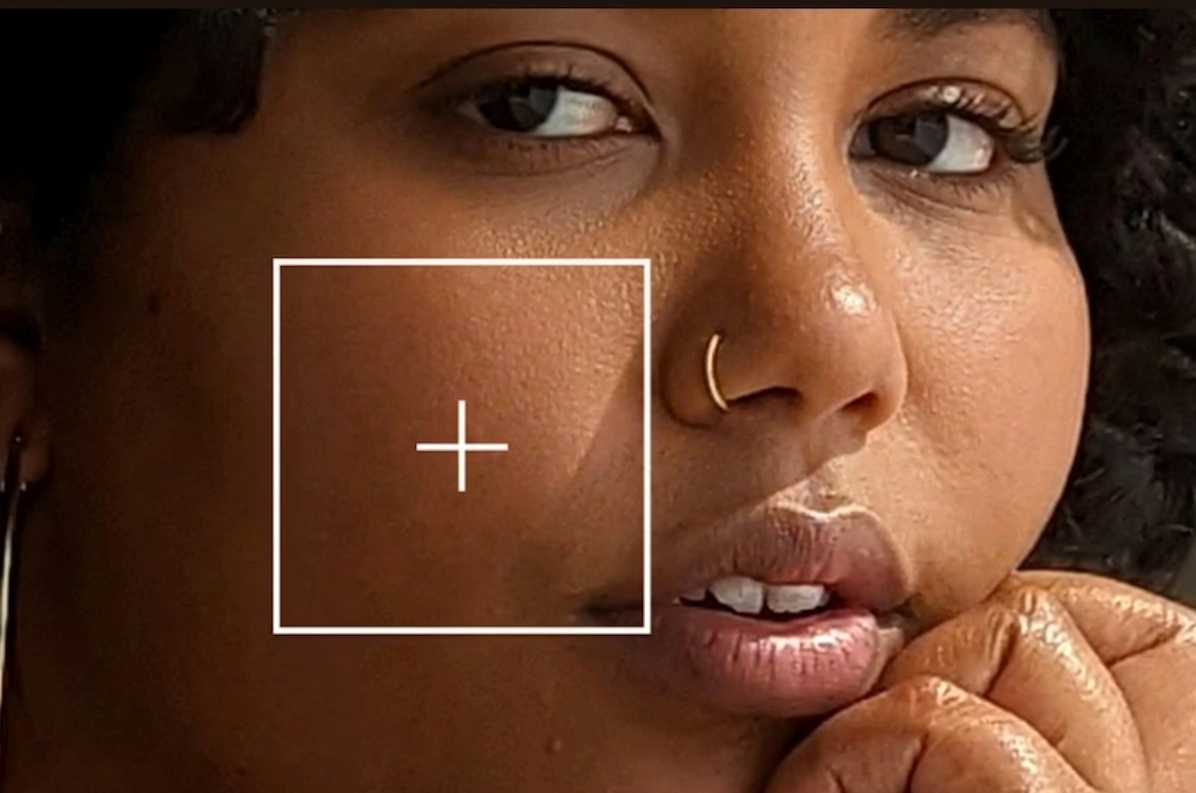
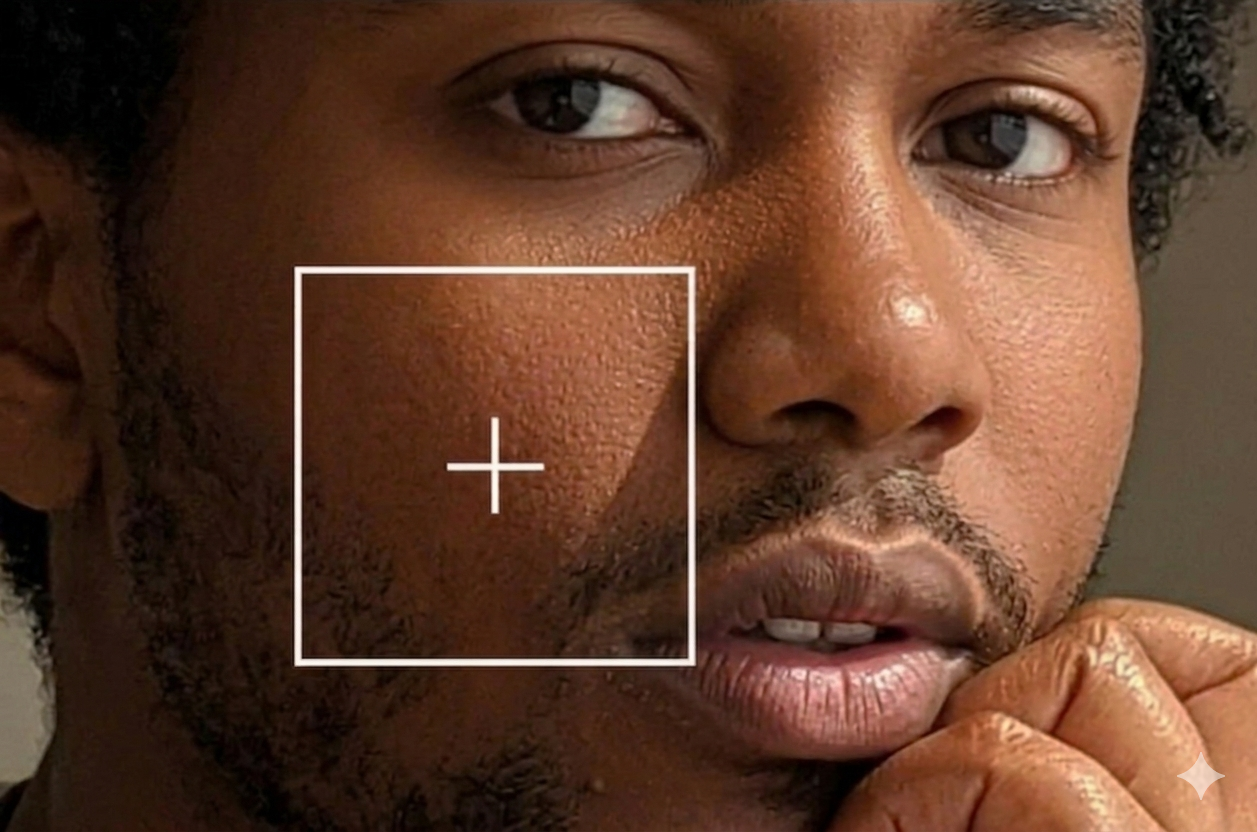
added the try on trouser and shirts also updated the text and photo of the landing page's skin tone feature deep dive

diff --git a/src/components/tryon/SmartFitSelection.jsx b/src/components/tryon/SmartFitSelection.jsx
@@ -3,12 +3,17 @@ import { Sparkles, Heart } from 'lucide-react';
 import { usePageFlow } from '../../hooks/usePageFlow';
 import { cn } from '../../lib/utils';
 
+import imgGreenTShirt from '../../assets/green-t-shirt.jpeg';
+import imgRedTShirt from '../../assets/red-t-shirt.jpeg';
+import imgBlackJeans from '../../assets/black-jeans.jpeg';
+import imgBlueJeans from '../../assets/bule-jeans.jpeg';
+
 // Hardcoded garments for display layout matching the screenshot
 const GARMENTS = [
-  { id: 'g1', category: 'upper', line: 'AETHER EDITION', name: 'Structured Tech-Blazer', price: '€450' },
-  { id: 'g2', category: 'upper', line: 'ESSENTIAL LINE', name: 'Obsidian Silk Shirt', price: '€210' },
-  { id: 'g3', category: 'lower', line: 'MODULAR KIT', name: 'Tapered Slate Trousers', price: '€320' },
-  { id: 'g4', category: 'lower', line: 'DAILY ARMOR', name: 'Raw Carbon Denim', price: '€185' },
+  { id: 'g1', category: 'upper', line: 'ESSENTIALS', name: 'Green T-Shirt', price: '€45', image: imgGreenTShirt },
+  { id: 'g2', category: 'upper', line: 'ESSENTIALS', name: 'Red T-Shirt', price: '€45', image: imgRedTShirt },
+  { id: 'g3', category: 'lower', line: 'DENIM', name: 'Black Jeans', price: '€120', image: imgBlackJeans },
+  { id: 'g4', category: 'lower', line: 'DENIM', name: 'Blue Jeans', price: '€120', image: imgBlueJeans },
 ];
 
 function GarmentCard({ garment, isSelected, onToggle }) {
@@ -23,10 +28,13 @@ function GarmentCard({ garment, isSelected, onToggle }) {
           </button>
         )}
         
-        {/* Placeholder for garment image */}
-        <div className="text-surface-highest/30 text-xs font-semibold uppercase tracking-widest text-center">
-          Image<br/>Placeholder
-        </div>
+        {garment.image ? (
+          <img src={garment.image} alt={garment.name} className="w-full h-full object-cover rounded-2xl absolute inset-0 z-0" />
+        ) : (
+          <div className="text-surface-highest/30 text-xs font-semibold uppercase tracking-widest text-center relative z-0">
+            Image<br/>Placeholder
+          </div>
+        )}
       </div>
 
       {/* Info */}

diff --git a/src/pages/LandingPage.jsx b/src/pages/LandingPage.jsx
@@ -54,7 +54,7 @@ const TECH_STEPS = [
     number: '02',
     title: 'Chromatic Skin Tone Sampling',
     tag: 'Fitzpatrick Scale · EfficientNetB0',
-    desc: 'YuNet 2023 detects and crops your face. EfficientNetB0 classifies your Fitzpatrick skin type (I–VI) and returns a hex color matched to your tone — all processed in-memory, never stored.',
+    desc: 'Trained EfficientNetB0 classifies your Fitzpatrick skin type (I–VI) and returns a hex color matched to your tone — all processed in-memory, never stored.',
     img: skinToneImg,
   },
   {
